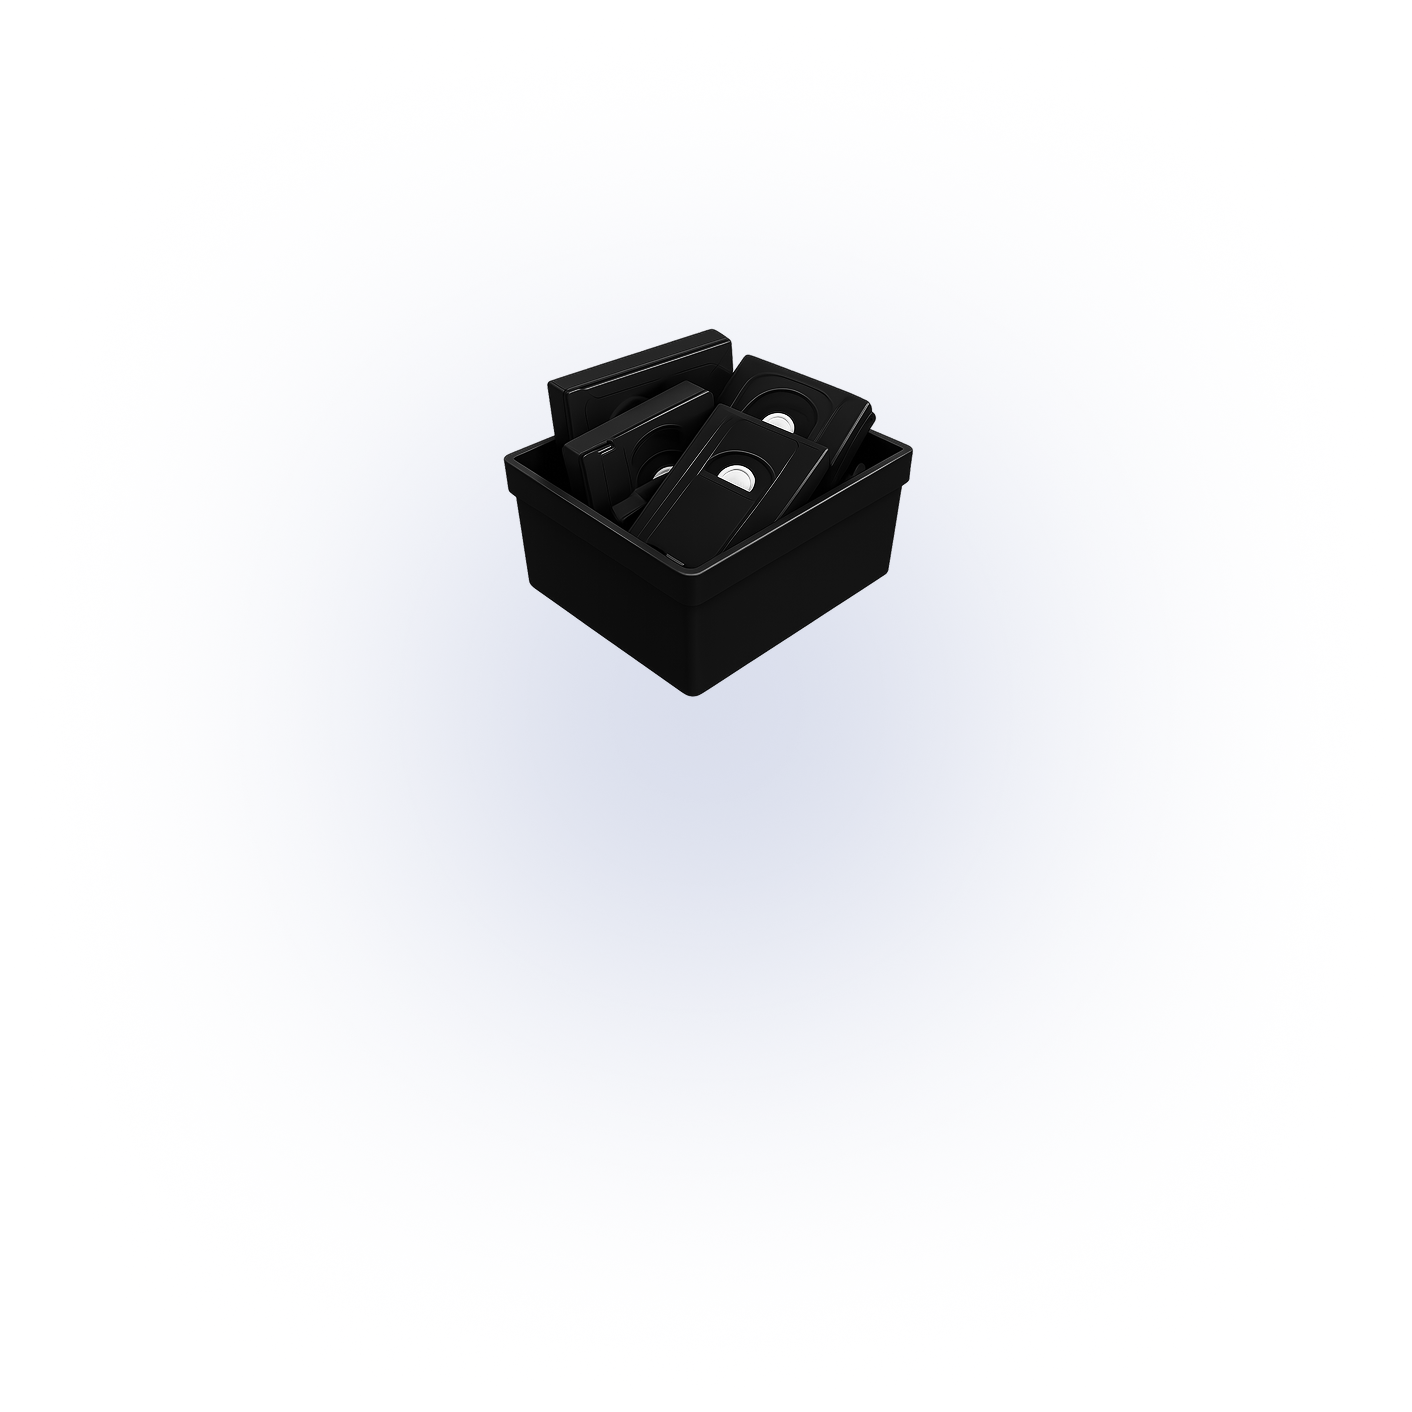
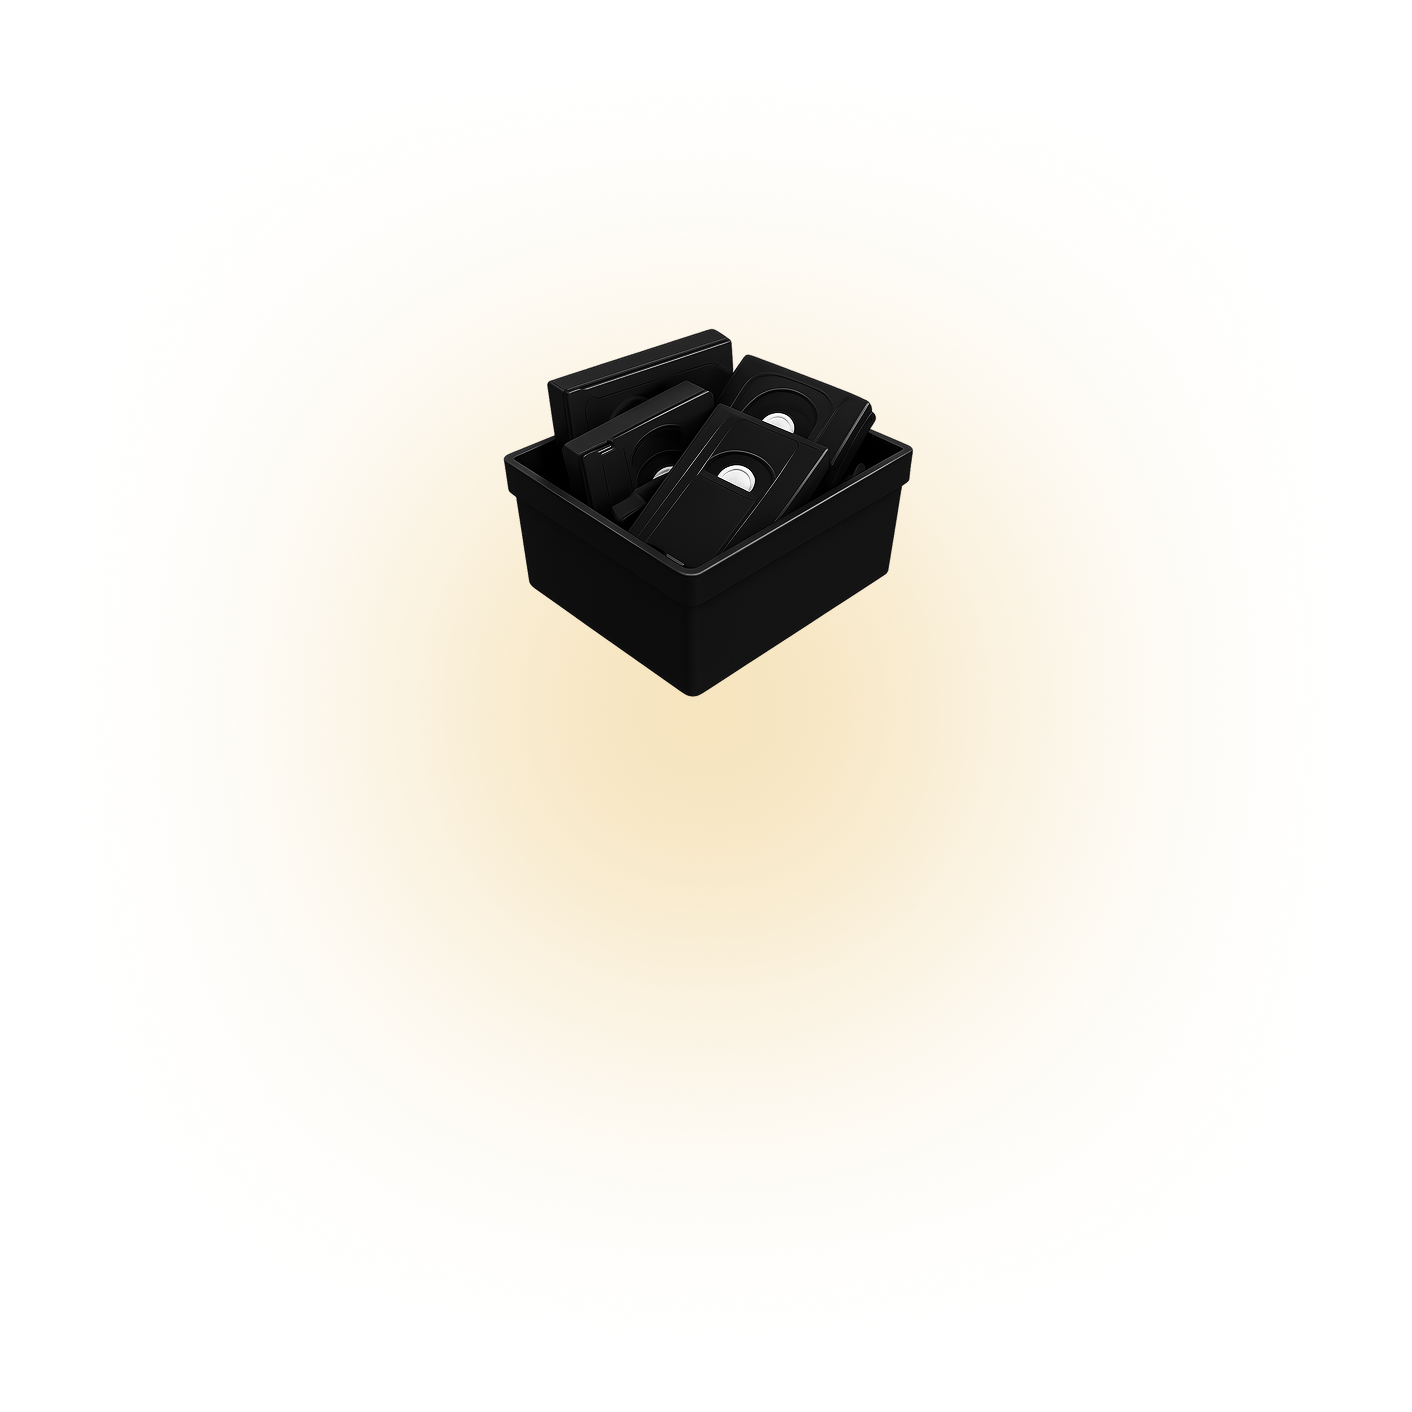
upd

Changed region(s): [[0.2805, 0.3428, 0.7167, 0.7167]]

diff --git a/src/components/ListCard.tsx b/src/components/ListCard.tsx
@@ -4,6 +4,7 @@ import { Squircle } from 'corner-smoothing'
 
 interface ListCardProps {
   title: string;
+  count: string;
   image: ReactNode;
   color?: 'green' | 'yellow';
   onClick?: () => void;
@@ -13,12 +14,13 @@ interface ListCardProps {
 export default function ListCard({
   title,
   image,
+  count,
   color = 'green',
   onClick,
   className = '',
 }: ListCardProps) {
   const colors = {
-    green: 'text-[#A2ADD0] bg-[#a2add0]',
+    green: 'text-[#E9BD5F] bg-[#E9BD5F]',
     yellow: 'text-[#AAD0A2] bg-[#aad0a2]',
   };
 
@@ -34,8 +36,11 @@ export default function ListCard({
               className
             )}
           >
-            <div className="z-10">
+            <div className="">
               <div className="text-[4vw] font-black pt-4">{title}</div>
+              <div className="text-[20vw] font-condensed -mt-4">
+                {count}
+              </div>
             </div>
 
             <div className="absolute bottom-[-180%] left-1/2 -translate-x-1/2 w-[390%] z-0 pointer-events-none">

diff --git a/src/components/CounterCard.tsx b/src/components/CounterCard.tsx
@@ -15,7 +15,7 @@ export default function CounterCard({ value, max, label, onClick }: CounterCardP
           <Squircle cornerRadius={11} borderWidth={1}>
             <div className="aspect-[2/3] w-full h-full flex flex-col justify-between items-center p-[6px] bg-[#98A3C6]">
               <div className="text-[4vw] text-[#191C22] font-normal pt-1">{label}</div>
-              <div className="relative text-[24vw] leading-none font-condensed text-[#191C22]">
+              <div className="relative text-[24vw] leading-none font-condensed font-light text-[#191C22]">
                 {value}
                 <span className="absolute top-[15%] right-[-40%] text-[4vw] font-medium text-[#191C22]">
                   /{max}

diff --git a/src/pages/Home.tsx b/src/pages/Home.tsx
@@ -37,6 +37,7 @@ export default function Home() {
         <div className="grid grid-cols-2 gap-4">
           <ListCard
             title="Просмотрено"
+            count='120'
             color="green"
             image={
               <img
@@ -48,6 +49,7 @@ export default function Home() {
           />
           <ListCard
             title="Буду смотреть"
+            count='56'
             color="yellow"
             image={
               <img

diff --git a/src/index.css b/src/index.css
@@ -45,6 +45,13 @@
 }
 
 @font-face {
+  font-family: 'CoFoWeather Condensed';
+  src: url('/src/assets/fonts/CoFoWeather-CondensedBlack-Trial.otf') format('opentype');
+  font-weight: 500;
+  font-style: normal;
+}
+
+@font-face {
   font-family: 'CoFoWeather Normal';
   src: url('/src/assets/fonts/CoFoWeather-NormalMedium-Trial.otf') format('opentype');
   font-weight: 400;
